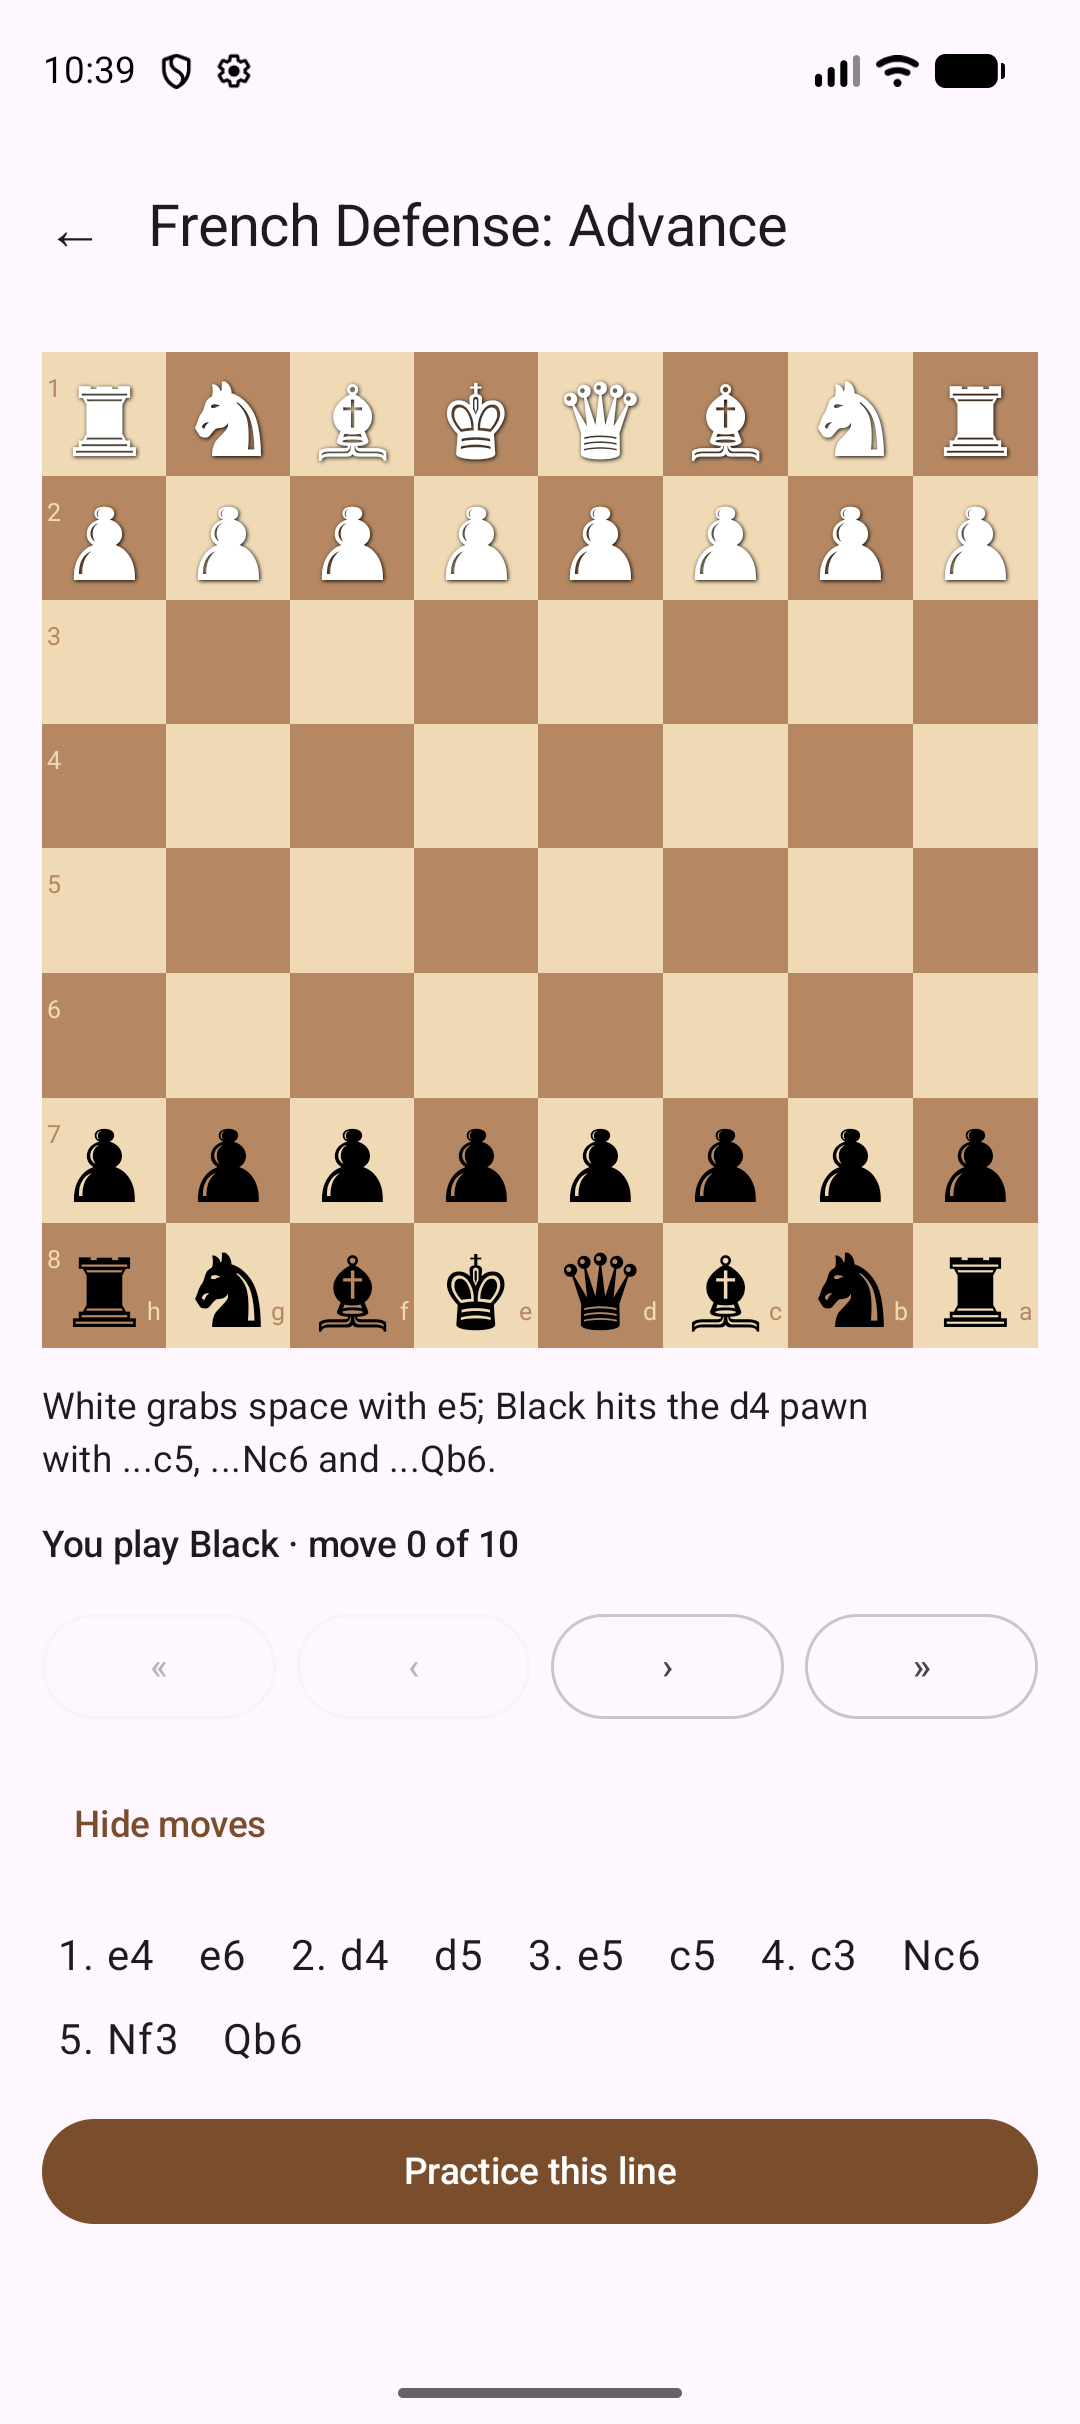
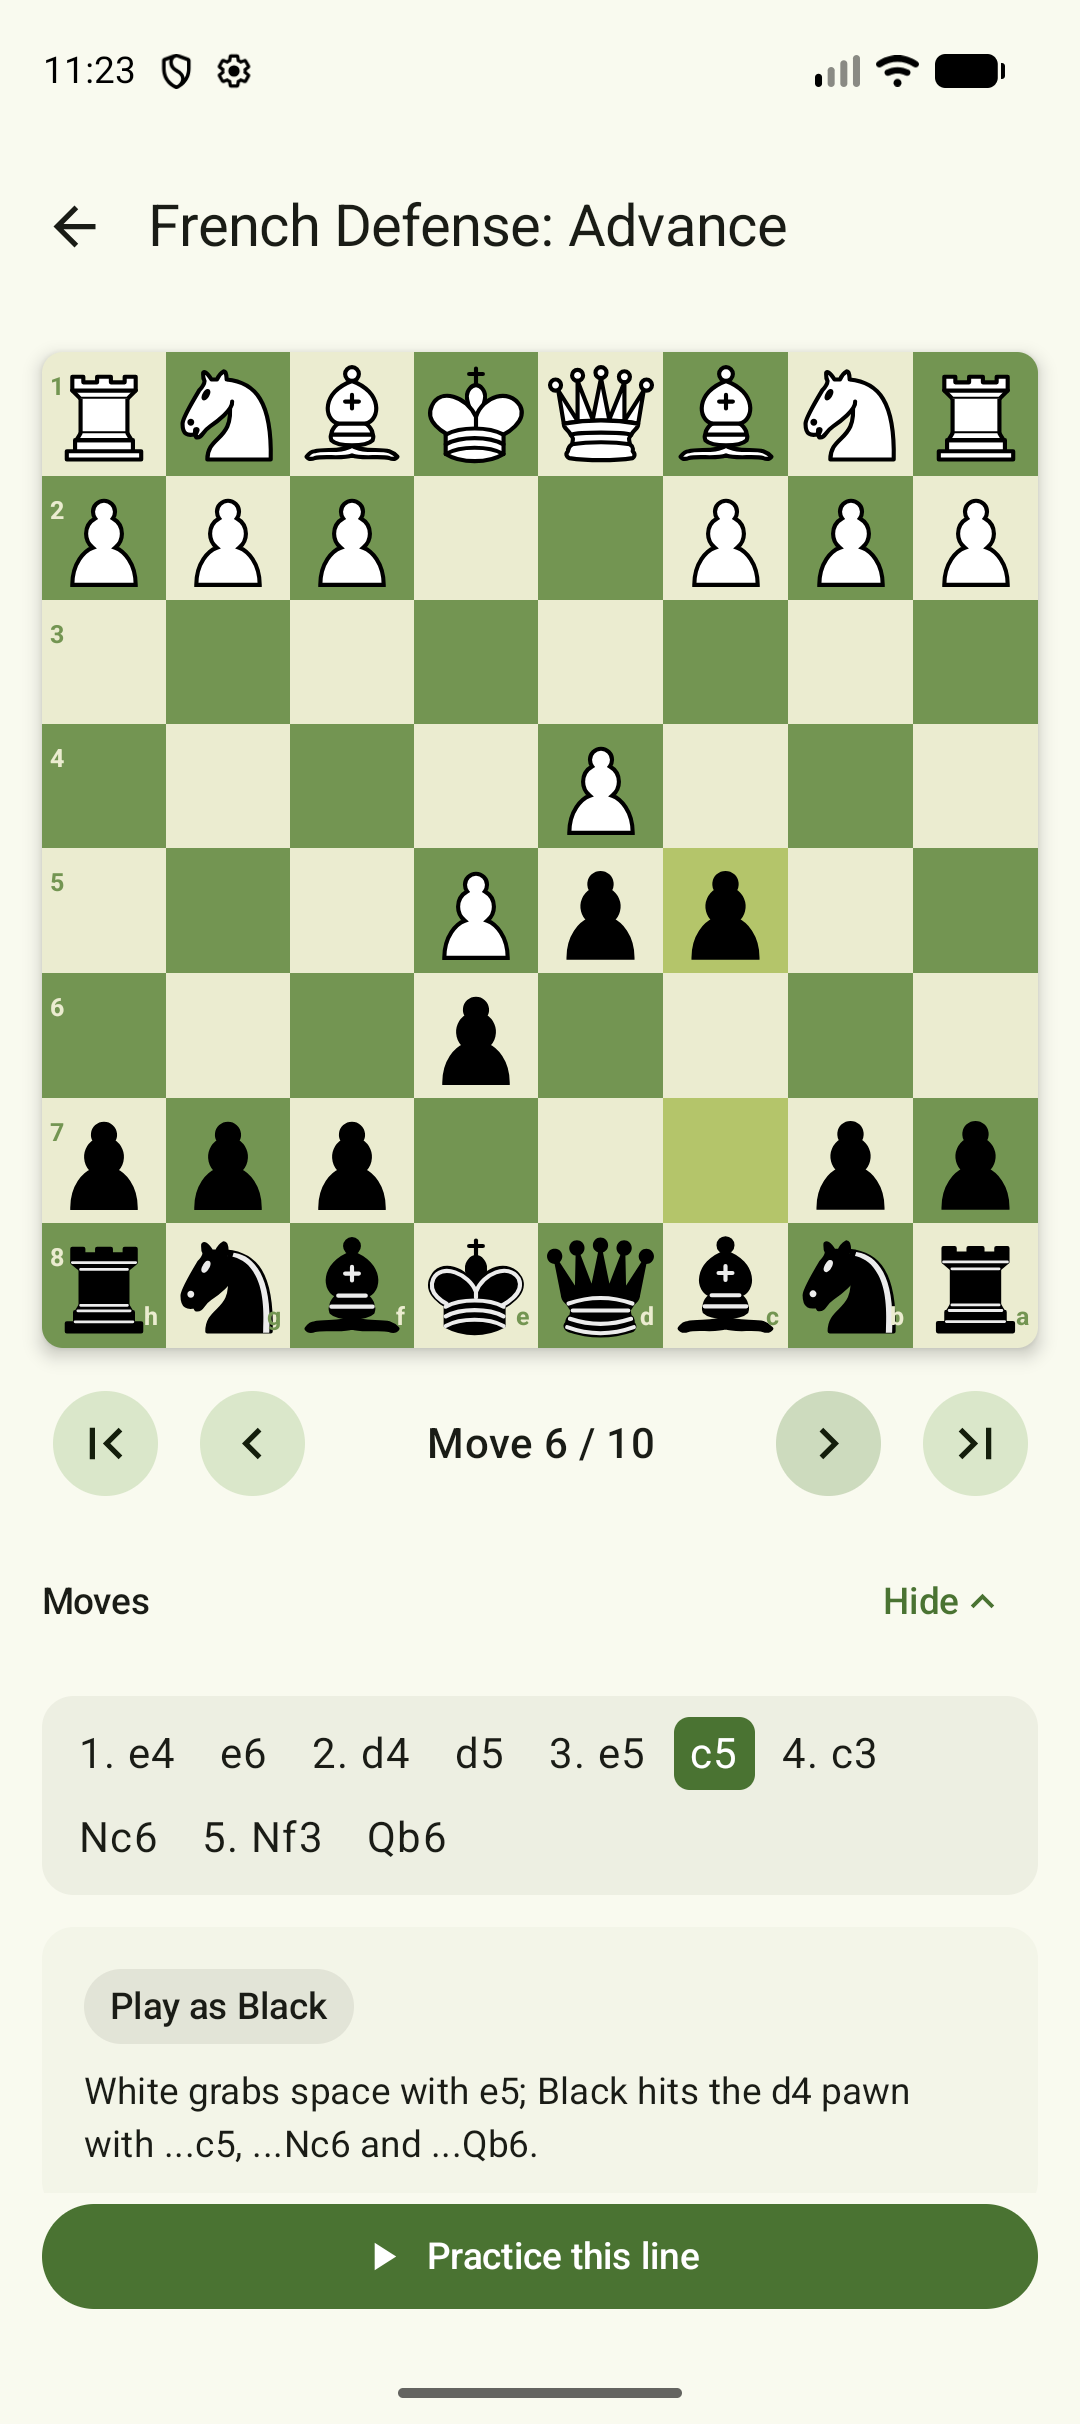
docs: update README and screenshots for the new UI
Describe the new feedback banner and layouts, add two landscape
screenshots and credit the cburnett piece set.

diff --git a/README.md b/README.md
@@ -7,19 +7,21 @@ move you make is graded against the line.
 ## Features
 
 - Opening list: nine openings (1.e4, 1.d4 and flank). Search by name or by a move in the line
-  ("Najdorf", "Nf3"), and filter by first move. Each card shows the first moves, the side you
-  train as and your practice record.
-- Study: step through the line with « ‹ › » or tap any move in the move list. The last move is
-  highlighted, and the board flips when you train as Black.
-- Practice: tap a piece to see its legal squares, then tap where it goes. Any legal move is
-  allowed, and the app grades it:
-  - The book move gets ✓, and the opponent replies 0.6 s later.
+  ("Najdorf", "Nf3"), and filter by first move. Each card shows the side you train as, the first
+  moves and your best result. In landscape the cards sit in two columns.
+- Study: step through the line with the first / previous / next / last buttons or tap any move in
+  the move list. The last move is highlighted, and the board flips when you train as Black.
+  "Practice this line" stays pinned at the bottom.
+- Practice: tap a piece to see its legal squares (a dot for a move, a ring for a capture), then
+  tap where it goes. Any legal move is allowed, and a feedback banner grades it:
+  - The book move turns the banner green, and the opponent replies 0.6 s later.
   - A move that leads into another opening from the catalog isn't a mistake, but the drill asks
-    for its own line.
-  - Any other move gets ✗, counts as a mistake and turns the square red.
+    for its own line (amber banner).
+  - Any other move counts as a mistake and turns the banner and the square red.
 
   Hint highlights the piece to move. When the line ends, a result card shows your mistakes and
-  the list saves your record.
+  hints, and the list saves your best result.
+- Light and dark themes in the board's green.
 
 ## Architecture
 
@@ -28,7 +30,8 @@ model/        Chess.kt            Piece, PieceColor, ChessPosition (wraps chessl
 data/         Opening.kt          Opening, OpeningProgress
               OpeningCatalog.kt   opening lines in standard notation
               OpeningRepository.kt interface + in-memory implementation
-ui/components ChessBoard, BoardWithPanel, MoveList, OpeningCard, AppTopBar
+ui/components ChessBoard, PieceImage, BoardWithPanel, MoveList, OpeningCard, Pills, AppTopBar
+ui/theme      Theme.kt            light and dark color schemes
 ui/list       OpeningListScreen + OpeningListViewModel
 ui/study      StudyScreen + StudyViewModel
 ui/practice   PracticeScreen + PracticeViewModel
@@ -46,6 +49,8 @@ AppContainer  the single repository instance shared by every screen
   which survives configuration changes, and the reply runs in `viewModelScope`. The selected
   square and the move-list toggle use `rememberSaveable`; `remember` caches the board highlights
   in Practice.
+- Layout: `BoardWithPanel` puts the panel under the board in portrait and next to it in
+  landscape, with an optional footer that stays on screen in both.
 - Navigation: routes `list`, `study/{openingId}` and `practice/{openingId}`. The id reaches the
   ViewModel through `SavedStateHandle`.
 - Rules: [chesslib](https://github.com/bhlangonijr/chesslib) parses the opening lines and
@@ -80,3 +85,15 @@ On Windows use `gradlew.bat` instead of `./gradlew`.
 | Search |
 |---|
 | ![Searching for Nf3 among 1.d4 openings](screenshots/05-search.png) |
+
+| Landscape list | Landscape study |
+|---|---|
+| ![Opening list in two columns](screenshots/06-list-landscape.png) | ![Study screen with the panel beside the board](screenshots/07-study-landscape.png) |
+
+## Credits
+
+- Chess pieces: the "cburnett" set by Colin M.L. Burnett, taken from
+  [Lichess](https://github.com/lichess-org/lila/tree/master/public/piece/cburnett), which
+  distributes it under GPLv2+. The originals on Wikimedia Commons are also offered under GFDL and
+  BSD. Converted to Android vector drawables in `app/src/main/res/drawable/piece_*.xml`.
+- First, last and hint icons: Google's Material icons, Apache 2.0.
